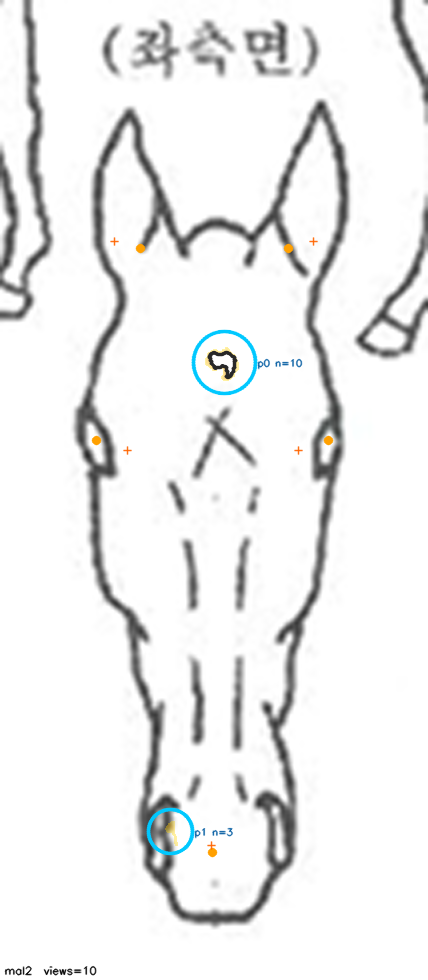
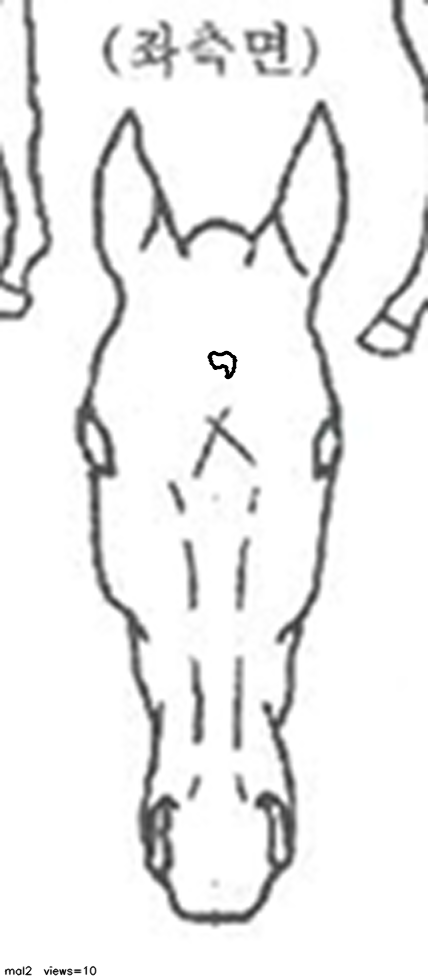
Diagram overlay: white fill + black outline by default; peaks, tint and landmarks become flags

diff --git a/src/horse_reid/canonical/diagram.py b/src/horse_reid/canonical/diagram.py
@@ -86,17 +86,19 @@ def _warp(a: np.ndarray, M: np.ndarray, size: tuple[int, int], nearest: bool = F
 
 def draw_on_diagram(diagram_bgr: np.ndarray, landmarks: dict[str, tuple[float, float]], maps: dict[str, Any],
                     scale: float = 4.0, min_support: float = 0.15, fill_support: float = 0.5,
-                    show_landmarks: bool = True, label: Optional[str] = None) -> tuple[np.ndarray, dict[str, Any]]:
+                    show_landmarks: bool = False, show_peaks: bool = False, show_tint: bool = False,
+                    label: Optional[str] = None) -> tuple[np.ndarray, dict[str, Any]]:
     """Warp the canonical ``support`` / ``mask`` / peaks onto ``diagram_bgr`` (upscaled by
     ``scale``). Returns ``(image, info)``; ``info`` has the affine, RMS residual and the
     peaks in diagram pixels.
 
-    Rendering: support >= ``min_support`` is tinted (yellow = weak .. red = strong, alpha
-    grows with support); support >= ``fill_support`` (accepted marking in at least that
-    weighted fraction of the frames) is filled white with a dark outline; peaks are circles
-    labelled with their frame count. The prob-based canonical mask is NOT used for the fill:
-    prob is the base candidate probability and also lights up rejected objects such as a
-    white halter.
+    Rendering (default): support >= ``fill_support`` (accepted marking in at least that
+    weighted fraction of the frames) is filled white with a black outline, nothing else.
+    Optional: ``show_tint`` tints support >= ``min_support`` (yellow = weak .. red =
+    strong), ``show_peaks`` draws the candidate peaks as circles labelled with their frame
+    count, ``show_landmarks`` marks the five alignment points. The prob-based canonical
+    mask is NOT used for the fill: prob is the base candidate probability and also lights
+    up rejected objects such as a white halter.
     """
     h, w = diagram_bgr.shape[:2]
     W, H = int(round(w * scale)), int(round(h * scale))
@@ -106,28 +108,29 @@ def draw_on_diagram(diagram_bgr: np.ndarray, landmarks: dict[str, tuple[float, f
 
     sup = _warp(maps["support"], M, (W, H))
     msk = sup >= fill_support
-    out = bg.astype(np.float32)
-    # support tint: colour from yellow (0,220,255 BGR) at min_support to red (0,0,230) at 1.0
-    t = np.clip((sup - min_support) / max(1e-6, 1.0 - min_support), 0, 1)
-    tint = np.stack([np.zeros_like(t), 220 * (1 - t), 255 * (1 - t) + 230 * t], axis=-1)
-    alpha = np.where(sup >= min_support, 0.35 + 0.5 * t, 0.0)[..., None]
-    out = out * (1 - alpha) + tint * alpha
-    out = out.round().astype(np.uint8)
+    out = bg.copy()
+    if show_tint:
+        # support tint: colour from yellow (0,220,255 BGR) at min_support to red (0,0,230) at 1.0
+        t = np.clip((sup - min_support) / max(1e-6, 1.0 - min_support), 0, 1)
+        tint = np.stack([np.zeros_like(t), 220 * (1 - t), 255 * (1 - t) + 230 * t], axis=-1)
+        alpha = np.where(sup >= min_support, 0.35 + 0.5 * t, 0.0)[..., None]
+        out = (out.astype(np.float32) * (1 - alpha) + tint * alpha).round().astype(np.uint8)
     # final mask: white fill + dark outline
     if msk.any():
         out[msk] = (255, 255, 255)
         cs, _ = cv2.findContours(msk.astype(np.uint8), cv2.RETR_EXTERNAL, cv2.CHAIN_APPROX_SIMPLE)
-        cv2.drawContours(out, cs, -1, (40, 40, 40), max(1, int(round(scale / 2))), cv2.LINE_AA)
-    # peaks
+        cv2.drawContours(out, cs, -1, (0, 0, 0), max(1, int(round(scale / 2))), cv2.LINE_AA)
+    # peaks (always reported in info; drawn only on request)
     peaks_px = []
     for p in maps.get("peaks", []):
         x, y = M @ np.array([p["x"], p["y"], 1.0])
         n = int(p.get("n_support", 0))
-        r = int(round(3 * scale + 1.5 * scale * min(n, 10) ** 0.5))
-        cv2.circle(out, (int(round(x)), int(round(y))), r, (255, 200, 0), max(1, int(round(scale / 2))), cv2.LINE_AA)
-        cv2.putText(out, f"{p.get('id', '')} n={n}", (int(round(x)) + r + 2, int(round(y)) + 4),
-                    cv2.FONT_HERSHEY_SIMPLEX, 0.08 * scale, (160, 90, 0), 1, cv2.LINE_AA)
         peaks_px.append({**p, "diagram_x": float(x), "diagram_y": float(y)})
+        if show_peaks:
+            r = int(round(3 * scale + 1.5 * scale * min(n, 10) ** 0.5))
+            cv2.circle(out, (int(round(x)), int(round(y))), r, (255, 200, 0), max(1, int(round(scale / 2))), cv2.LINE_AA)
+            cv2.putText(out, f"{p.get('id', '')} n={n}", (int(round(x)) + r + 2, int(round(y)) + 4),
+                        cv2.FONT_HERSHEY_SIMPLEX, 0.08 * scale, (160, 90, 0), 1, cv2.LINE_AA)
     if show_landmarks:
         for name in LANDMARK_ORDER:
             x, y = dst[name]

diff --git a/scripts/draw_on_diagram.py b/scripts/draw_on_diagram.py
@@ -27,16 +27,19 @@ def main() -> int:
                    help="JSON spec with the diagram image and its 5 landmarks")
     p.add_argument("--scale", type=float, default=4.0, help="upscale factor for the drawing")
     p.add_argument("--min-support", type=float, default=0.15, help="support below this is not tinted")
-    p.add_argument("--no-landmarks", action="store_true")
+    p.add_argument("--landmarks", action="store_true", help="also mark the five alignment points")
+    p.add_argument("--peaks", action="store_true", help="also draw candidate peaks (circle + frame count)")
+    p.add_argument("--tint", action="store_true", help="also tint support >= --min-support (yellow..red)")
+    p.add_argument("--no-label", action="store_true")
     p.add_argument("--save", type=Path, default=None, help="default: <output>/reference/marking_on_diagram.png")
     a = p.parse_args()
 
     ref_dir = a.output / "reference"
     img, lm = load_diagram(a.diagram)
     maps = load_reference_maps(ref_dir)
-    label = f"{maps['horse_id']}  views={sum(maps['views'].values()) if maps['views'] else len(maps['frames'])}"
+    label = None if a.no_label else f"{maps['horse_id']}  views={sum(maps['views'].values()) if maps['views'] else len(maps['frames'])}"
     out, info = draw_on_diagram(img, lm, maps, scale=a.scale, min_support=a.min_support,
-                                show_landmarks=not a.no_landmarks, label=label)
+                                show_landmarks=a.landmarks, show_peaks=a.peaks, show_tint=a.tint, label=label)
     save = a.save or (ref_dir / "marking_on_diagram.png")
     save.parent.mkdir(parents=True, exist_ok=True)
     cv2.imwrite(str(save), out)

diff --git a/tests/test_canonical.py b/tests/test_canonical.py
@@ -546,3 +546,8 @@ def test_draw_on_diagram_aligns_landmarks(tmp_path) -> None:
     # between the eyes (x ~ 53*4) and above the eye line (y < 110*4), below the ear bases (y > 62*4)
     assert abs(px - 53 * 4) < 12 and 62 * 4 < py < 110 * 4
     assert tuple(out[int(py), int(px)]) == (255, 255, 255)              # mask drawn white at the peak
+    # default rendering = white fill + black outline only: no blue peak circle, no orange landmark dot
+    assert not ((out[:, :, 0] > 200) & (out[:, :, 1] < 230) & (out[:, :, 2] < 60)).any()
+    assert not ((out[:, :, 2] > 200) & (out[:, :, 1] > 120) & (out[:, :, 1] < 200) & (out[:, :, 0] < 60)).any()
+    out2, _ = draw_on_diagram(bgr, lmf, maps, scale=4.0, show_peaks=True, show_landmarks=True)
+    assert (out2 != out).any()
